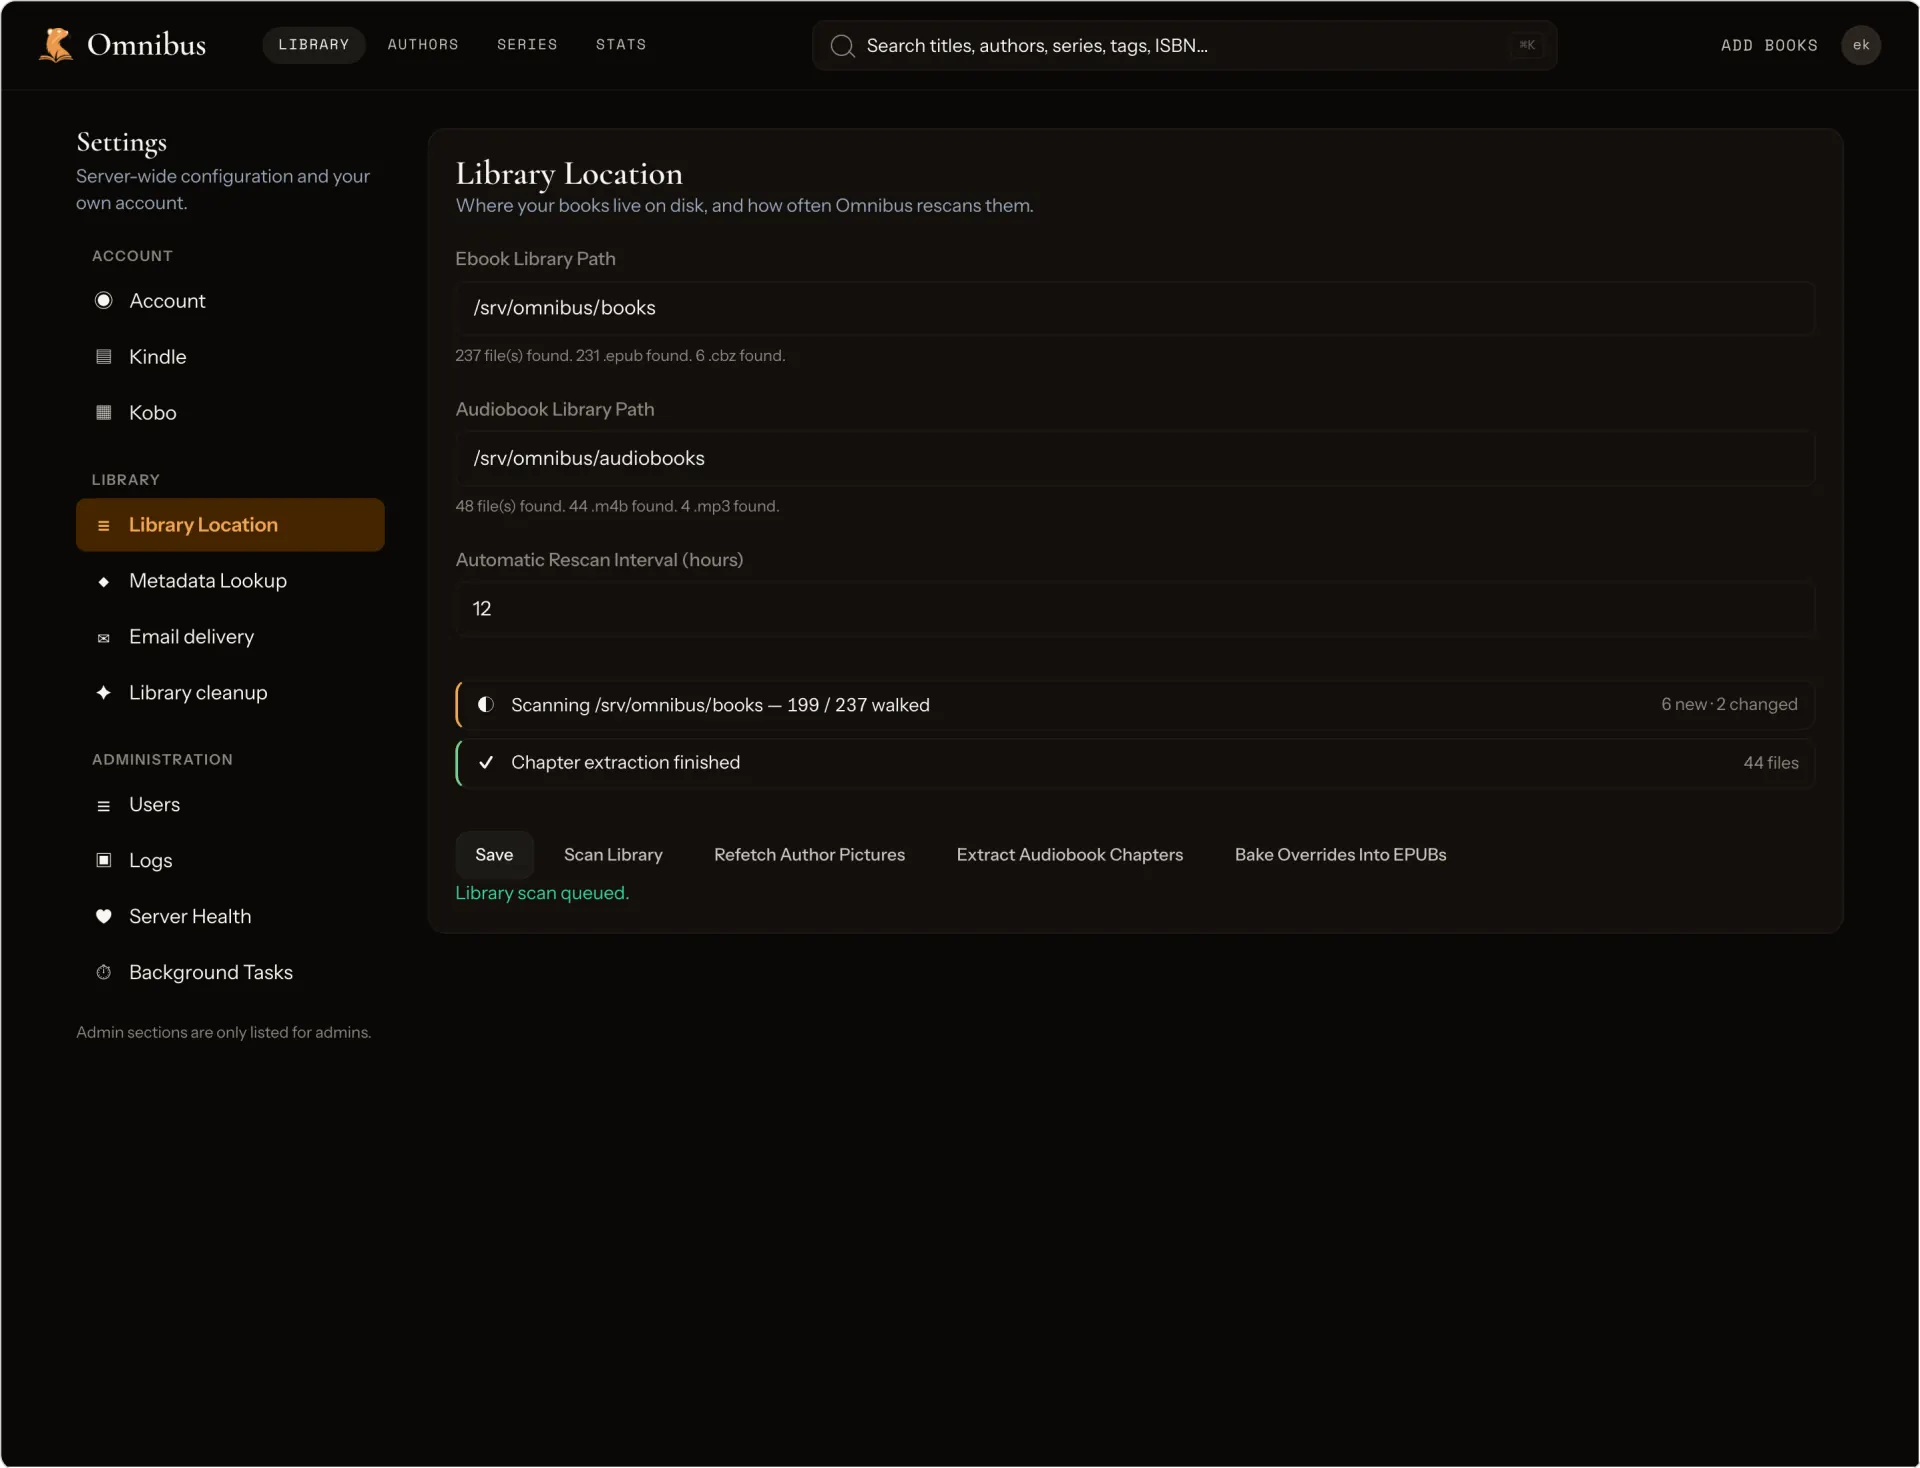
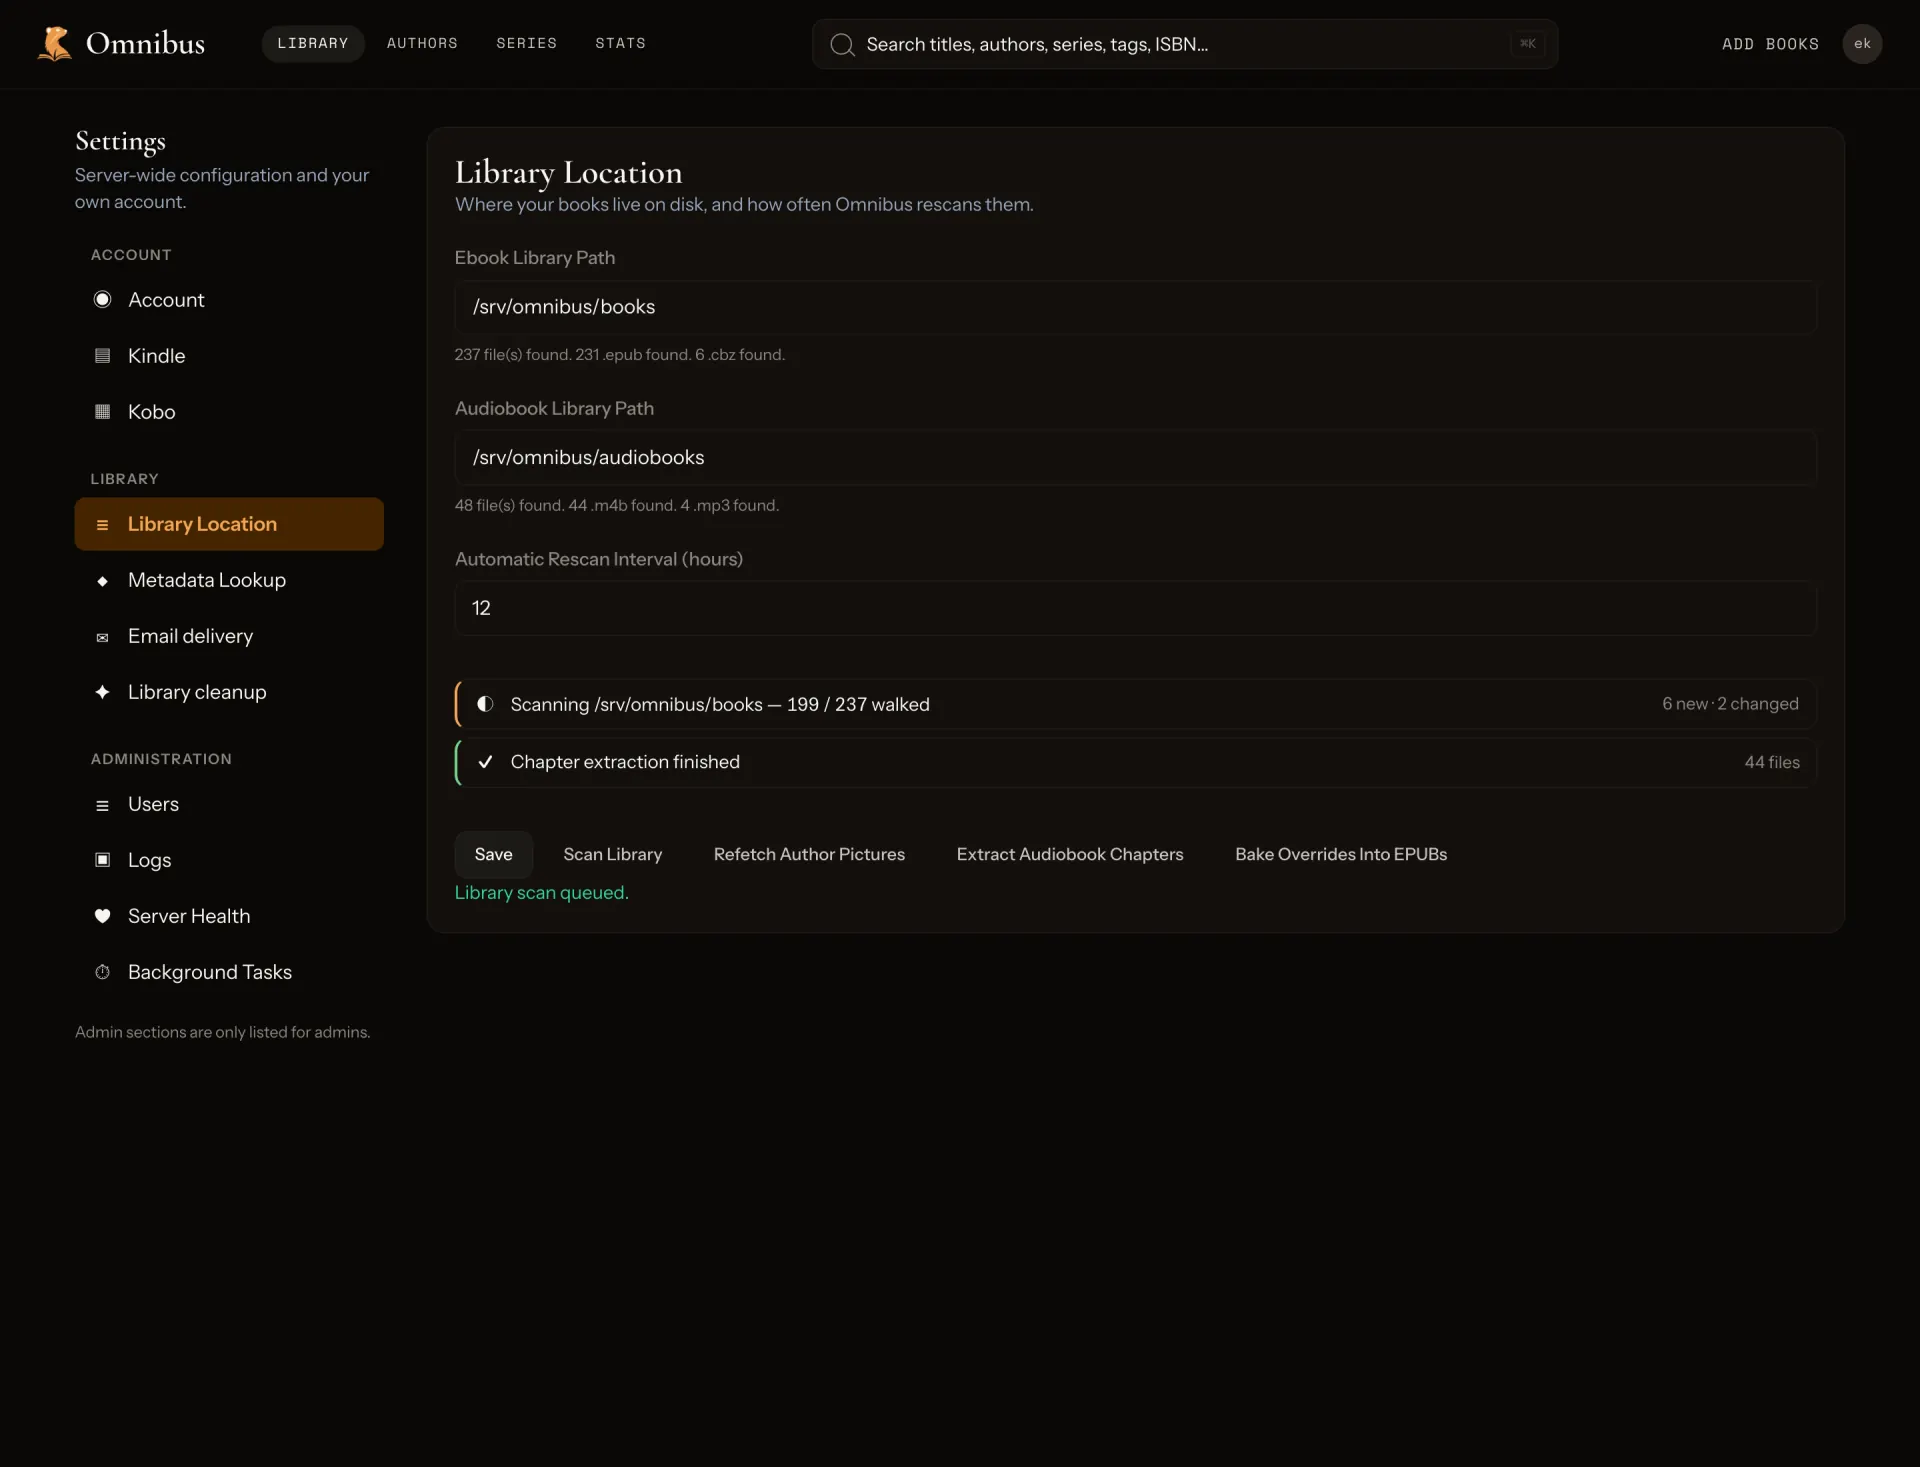
fix: refresh both screenshot sets from the uniform-footprint design exports (#2308)
## Summary
- Re-encode both theme sets (14 shots each) from the latest
design-exports bundle, whose five phone renders now share one 804×1748
footprint — the Mobile and Check-in phones finally render at matching
sizes.
- The scanner is themed in this export generation, so
`shots/sepia/omnibus-checkin-scan.webp` is back and re-listed in
`SEPIA_SHOTS`.
- Update every shot's `width`/`height` attrs and `--ar` hints to the new
geometry (desktop 1440-based, phones 402×874).
- `library-home` keeps its previous renders in both themes: the new
exports rasterised before the continue-fan mounted, leaving a hole where
the fan belongs.

## Test plan
- [x] Served `site/src` locally and drove every panel in both
directions: hero fan present, phones uniformly sized, sepia scanner
themed, zero broken images.

## Version
By default a merge to `main` cuts a patch release. Pick the version
update this
PR should trigger; labels override the default:
- [ ] **Minor** — add the `minor version` label (`vX.Y.Z` →
`vX.(Y+1).0`).
- [ ] **Patch** — the default; add the `patch version` label or leave
unlabeled
  (`vX.Y.Z` → `vX.Y.(Z+1)`).
- [x] **No release** — add the `no release` label to skip cutting a
release.

## Notes
- Sepia phone exports remain flattened at the source; the matching dark
export's alpha channel is grafted on before encoding (canvases align in
this generation).

diff --git a/site/src/index.html b/site/src/index.html
@@ -62,8 +62,8 @@
           <h2 class="h2" data-anim style="--d:70ms">Four cozy styles</h2>
         </div>
         <div class="themes-vis" data-anim style="--d:200ms">
-          <figure class="frame" style="--ar:1442/1002">
-            <img class="shot" src="shots/dark/omnibus-themes-strip.webp" width="1442" height="1002" alt="One library screen sliced diagonally into four colour themes: dark, black, white and sepia.">
+          <figure class="frame" style="--ar:1440/1000">
+            <img class="shot" src="shots/dark/omnibus-themes-strip.webp" width="1440" height="1000" alt="One library screen sliced diagonally into four colour themes: dark, black, white and sepia.">
           </figure>
         </div>
       </div>
@@ -82,8 +82,8 @@
             </ul>
           </div>
           <div class="split-vis" data-anim style="--d:230ms">
-            <figure class="frame" style="--ar:1442/982">
-              <img class="shot" src="shots/dark/omnibus-reader-quote-card.webp" width="1442" height="982" alt="The EPUB reader with a highlighted passage and the quote-card composer open beside it.">
+            <figure class="frame" style="--ar:1440/980">
+              <img class="shot" src="shots/dark/omnibus-reader-quote-card.webp" width="1440" height="980" alt="The EPUB reader with a highlighted passage and the quote-card composer open beside it.">
             </figure>
           </div>
         </div>
@@ -95,8 +95,8 @@
       <div class="sec-inner sec-inner--split">
         <div class="split split--flip">
           <div class="split-vis" data-anim>
-            <figure class="frame" style="--ar:1442/902">
-              <img class="shot" src="shots/dark/omnibus-player.webp" width="1442" height="902" alt="The audiobook player: cover art, chapter map, and transport controls.">
+            <figure class="frame" style="--ar:1440/900">
+              <img class="shot" src="shots/dark/omnibus-player.webp" width="1440" height="900" alt="The audiobook player: cover art, chapter map, and transport controls.">
             </figure>
           </div>
           <div class="split-copy">
@@ -126,11 +126,11 @@
             </ul>
           </div>
           <div class="split-vis" data-anim style="--d:210ms">
-            <figure class="frame" style="--ar:1442/802">
-              <img class="shot" src="shots/dark/omnibus-sync-alignment.webp" width="1442" height="802" alt="The Link formats dialog, mapping an ebook’s chapters onto its audiobook timeline.">
+            <figure class="frame" style="--ar:1440/800">
+              <img class="shot" src="shots/dark/omnibus-sync-alignment.webp" width="1440" height="800" alt="The Link formats dialog, mapping an ebook’s chapters onto its audiobook timeline.">
             </figure>
-            <figure class="frame inset-shot" data-anim style="--ar:1442/382;--d:360ms">
-              <img class="shot" src="shots/dark/omnibus-sync-continue-hero.webp" width="1442" height="382" alt="A single continue card marked synced, offering Immersive, Read and Listen.">
+            <figure class="frame inset-shot" data-anim style="--ar:1440/380;--d:360ms">
+              <img class="shot" src="shots/dark/omnibus-sync-continue-hero.webp" width="1440" height="380" alt="A single continue card marked synced, offering Immersive, Read and Listen.">
             </figure>
           </div>
         </div>
@@ -142,8 +142,8 @@
       <div class="sec-inner sec-inner--split">
         <div class="split split--flip">
           <div class="split-vis" data-anim>
-            <figure class="frame" style="--ar:1442/1002">
-              <img class="shot" src="shots/dark/omnibus-shelf-kobo.webp" width="1442" height="1002" alt="The smart-shelf editor: a Fantasy tag rule matching six books, with Sync to Kobo switched on.">
+            <figure class="frame" style="--ar:1440/1000">
+              <img class="shot" src="shots/dark/omnibus-shelf-kobo.webp" width="1440" height="1000" alt="The smart-shelf editor: a Fantasy tag rule matching six books, with Sync to Kobo switched on.">
             </figure>
           </div>
           <div class="split-copy">
@@ -171,8 +171,8 @@
             </ul>
           </div>
           <div class="split-vis" data-anim style="--d:210ms">
-            <figure class="frame" style="--ar:1442/902">
-              <img class="shot" src="shots/dark/omnibus-book-detail.webp" width="1442" height="902" alt="A book page for The Name of the Wind, with resume, listen and read-status controls.">
+            <figure class="frame" style="--ar:1440/900">
+              <img class="shot" src="shots/dark/omnibus-book-detail.webp" width="1440" height="900" alt="A book page for The Name of the Wind, with resume, listen and read-status controls.">
             </figure>
           </div>
         </div>
@@ -189,14 +189,14 @@
         </div>
         <div class="phones">
           <div>
-            <div class="phone" data-anim style="--ar:404/876;--d:190ms">
-              <img class="shot" src="shots/dark/omnibus-ios-book-detail.webp" width="404" height="876" alt="A book page in the native iOS app, resuming at chapter four.">
+            <div class="phone" data-anim style="--ar:402/874;--d:190ms">
+              <img class="shot" src="shots/dark/omnibus-ios-book-detail.webp" width="402" height="874" alt="A book page in the native iOS app, resuming at chapter four.">
             </div>
             <p class="phone-cap" data-anim style="--d:250ms">iOS · native SwiftUI</p>
           </div>
           <div>
-            <div class="phone" data-anim style="--ar:382/802;--d:280ms">
-              <img class="shot" src="shots/dark/omnibus-android-library.webp" width="382" height="802" alt="The library on Android, with a continue card and a wall of covers.">
+            <div class="phone" data-anim style="--ar:402/874;--d:280ms">
+              <img class="shot" src="shots/dark/omnibus-android-library.webp" width="402" height="874" alt="The library on Android, with a continue card and a wall of covers.">
             </div>
             <p class="phone-cap" data-anim style="--d:340ms">Android · WebView shell</p>
           </div>
@@ -214,20 +214,20 @@
         </div>
         <div class="trio">
           <div>
-            <div class="phone" data-anim style="--ar:382/822;--d:190ms">
-              <img class="shot" src="shots/dark/omnibus-checkin-scan.webp" width="382" height="822" alt="The check-in scanner lining up a book’s barcode.">
+            <div class="phone" data-anim style="--ar:402/874;--d:190ms">
+              <img class="shot" src="shots/dark/omnibus-checkin-scan.webp" width="402" height="874" alt="The check-in scanner lining up a book’s barcode.">
             </div>
             <p class="phone-cap" data-anim style="--d:250ms">Scan a barcode</p>
           </div>
           <div>
-            <div class="phone" data-anim style="--ar:382/822;--d:270ms">
-              <img class="shot" src="shots/dark/omnibus-checkin-success.webp" width="382" height="822" alt="A scanned book confirmed as physically owned, offering Scan another or View book.">
+            <div class="phone" data-anim style="--ar:402/874;--d:270ms">
+              <img class="shot" src="shots/dark/omnibus-checkin-success.webp" width="402" height="874" alt="A scanned book confirmed as physically owned, offering Scan another or View book.">
             </div>
             <p class="phone-cap" data-anim style="--d:330ms">Check the copy in</p>
           </div>
           <div>
-            <div class="phone" data-anim style="--ar:404/876;--d:350ms">
-              <img class="shot" src="shots/dark/omnibus-wishlist-ios.webp" width="404" height="876" alt="A wishlist book on iOS, tracking since the day it was found, with Find a copy.">
+            <div class="phone" data-anim style="--ar:402/874;--d:350ms">
+              <img class="shot" src="shots/dark/omnibus-wishlist-ios.webp" width="402" height="874" alt="A wishlist book on iOS, tracking since the day it was found, with Find a copy.">
             </div>
             <p class="phone-cap" data-anim style="--d:410ms">Or track it on the wishlist</p>
           </div>
@@ -246,16 +246,16 @@
         <div class="duo">
           <div>
             <div class="shotwrap" data-anim style="--d:190ms">
-              <figure class="frame" style="--ar:1442/1102">
-                <img class="shot" src="shots/dark/omnibus-settings-library.webp" width="1442" height="1102" alt="Settings showing the ebook and audiobook library paths and a scan in progress.">
+              <figure class="frame" style="--ar:1440/1100">
+                <img class="shot" src="shots/dark/omnibus-settings-library.webp" width="1440" height="1100" alt="Settings showing the ebook and audiobook library paths and a scan in progress.">
               </figure>
             </div>
             <p class="phone-cap" data-anim style="--d:250ms">Settings · Library Location</p>
           </div>
           <div>
             <div class="shotwrap" data-anim style="--d:280ms">
-              <figure class="frame" style="--ar:1442/1102">
-                <img class="shot" src="shots/dark/omnibus-metadata-edit.webp" width="1442" height="1102" alt="The metadata editor for a book, with edited fields marked and a save bar counting them.">
+              <figure class="frame" style="--ar:1440/1100">
+                <img class="shot" src="shots/dark/omnibus-metadata-edit.webp" width="1440" height="1100" alt="The metadata editor for a book, with edited fields marked and a save bar counting them.">
               </figure>
             </div>
             <p class="phone-cap" data-anim style="--d:340ms">Edit metadata</p>

diff --git a/site/src/app.js b/site/src/app.js
@@ -49,11 +49,10 @@
   var dir = stored !== null && has(DIRS, stored) ? stored : 'dark';
 
   /* Shots with a shots/sepia/ counterpart. Anything absent here keeps its
-     dark render in both directions rather than 404ing mid-toggle —
-     checkin-scan deliberately so: the scanner screen is the same design in
-     both directions. */
+     dark render in both directions rather than 404ing mid-toggle. */
   var SEPIA_SHOTS = {
     'omnibus-android-library': 1, 'omnibus-book-detail': 1,
+    'omnibus-checkin-scan': 1,
     'omnibus-checkin-success': 1, 'omnibus-ios-book-detail': 1,
     'omnibus-library-home': 1, 'omnibus-metadata-edit': 1,
     'omnibus-player': 1, 'omnibus-reader-quote-card': 1,
